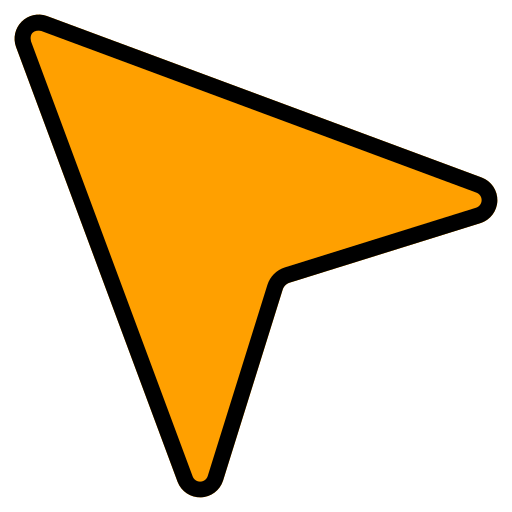
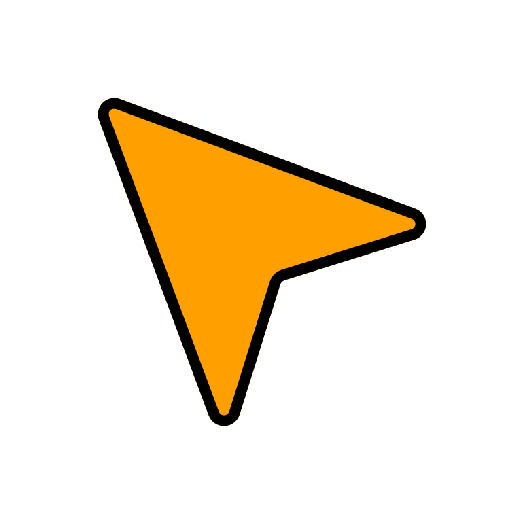
Actualice la ventana de registrarse, ya tiene mismo colores del Login. Agregue nuevo colores de los iconos.

Changed region(s): [[0.0312, 0.0312, 0.9688, 0.9688]]

diff --git a/src/views/FormularioRegistro.java b/src/views/FormularioRegistro.java
@@ -39,18 +39,21 @@ import com.formdev.flatlaf.ui.FlatListCellBorder.Selected;
 import modelos.User;
 import repository.UserRepository;
 import utils.Colores;
+import utils.Fonts;
+import utils.GradientBackground;
 import utils.PanelPersonalizable;
+import utils.RoundedBorder;
 
 public class FormularioRegistro extends JFrame{
     
 	
 	// Puro Fonts, ya depues hare otra clase de Fonts
     public Font fuente;
-    private Font fontError = new Font("Times New Roman", Font.ITALIC, 12);
-    private Font fontTextoCampo = new Font("Times New Roman", Font.ITALIC, 15);
-    private Font fontBoton = new Font("Times New Roman", Font.BOLD, 20);
-    private Font fontTitulo = new Font("Times New Roman", Font.BOLD, 35);
-    private Font fontBotonChico = new Font("Times New Roman", Font.BOLD, 14);
+    private Font fontError = Fonts.setFontSegoe(2, 12);
+    private Font fontTextoCampo = Fonts.setFontSegoe(2, 15);
+    private Font fontBoton = Fonts.setFontSegoe(1, 20);
+    private Font fontTitulo = Fonts.setFontSegoe(1, 35);
+    private Font fontBotonChico = Fonts.setFontSegoe(1, 12);
     
     
     // Fields de Texto para Usuario
@@ -75,19 +78,23 @@ public class FormularioRegistro extends JFrame{
     JLabel iconoUsuario = new JLabel();
     
     //Chckboxes
-    private JCheckBox guardar= new JCheckBox("Guardar como usuario rapido");
+    private JCheckBox guardar= new JCheckBox(" Guardar como usuario rapido");
     public FormularioRegistro()
     {
     	userRepository = new UserRepository();
     	
-        iconoUsuarioFinal = escalarImagenLocal("..\\img\\icono.png",200,200);
-        iconoUsuarioFinal.setDescription("..\\img\\icono.png");
-        setSize(850,550);
+    	GradientBackground gradientBg = new GradientBackground();
+        gradientBg.setLayout(null);
+        setContentPane(gradientBg);
+    	
+        iconoUsuarioFinal = escalarImagenLocal("..\\img\\iconoWhite.png",200,200);
+        iconoUsuarioFinal.setDescription("..\\img\\iconoWhite.png");
+        setSize(1050,650);
         setLayout(null);
         setResizable(false);
         setTitle("Registro");
         setLocationRelativeTo(null);
-        getContentPane().setBackground(Colores.BACKGROUND);
+       // getContentPane().setBackground(Colores.BACKGROUND);
         
         Toolkit tk = Toolkit.getDefaultToolkit();
 		ImageIcon cursorImage = new ImageIcon("src\\img\\pointer_b.png");
@@ -95,13 +102,9 @@ public class FormularioRegistro extends JFrame{
 		this.setCursor(myCursor);
         
         PanelPersonalizable fondo = new PanelPersonalizable();
-        fondo.setBounds(75, 50, 680, 450);
+        fondo.setBounds(165, 90, 680, 450);
+        fondo.setBorder(new RoundedBorder(Colores.INPUT_BORDER, 20, 2));
         fondo.setBackground(Colores.LOGIN_PANEL);
-        
-        // Shadow
-        PanelPersonalizable fondo2 = new PanelPersonalizable();
-        fondo2.setBounds(72, 46, 687, 457);
-        fondo2.setBackground(Colores.SHADOW_COLOR);
         
 
         JPanel panelComponentes = new JPanel();
@@ -114,15 +117,25 @@ public class FormularioRegistro extends JFrame{
         panelComponentes.setAlignmentX(Component.CENTER_ALIGNMENT);
         
         setDefaultCloseOperation(JFrame.DO_NOTHING_ON_CLOSE);
-
-        JLabel saludo = new JLabel("Registrate"); 
+        
+        
+        ImageIcon originalIcon = new ImageIcon("src/img/registerWhite.png");
+        Image scaledImage = originalIcon.getImage().getScaledInstance(32, 32, Image.SCALE_SMOOTH);
+        ImageIcon iconoRegistrar = new ImageIcon(scaledImage);
+        
+        JLabel saludo = new JLabel(" Registrate", iconoRegistrar, JLabel.LEFT);
+        saludo.setHorizontalTextPosition(JLabel.RIGHT);  
+        saludo.setVerticalTextPosition(JLabel.CENTER); 
+        
         saludo.setOpaque(false);
         saludo.setFont(fontTitulo);
-        saludo.setForeground(Colores.TEXT_COLOR);
+        saludo.setForeground(Colores.PRIMARY_HEADINGS);
         saludo.setAlignmentX(Component.CENTER_ALIGNMENT);
         
+        
+        panelComponentes.add(Box.createRigidArea(new Dimension(0,50)));
         panelComponentes.add(saludo);
-        panelComponentes.add(Box.createRigidArea(new Dimension(0,35)));
+        panelComponentes.add(Box.createRigidArea(new Dimension(0,65)));
 
         lblErrorNombre = crearErrorLabel();
         lblErrorApellido = crearErrorLabel();
@@ -138,9 +151,11 @@ public class FormularioRegistro extends JFrame{
         JLabel perfil = new JLabel("Foto perfil");
         perfil.setOpaque(false);
         perfil.setFont(fontTitulo);
-        perfil.setForeground(Colores.TEXT_COLOR);
+        perfil.setForeground(Colores.LOGIN_PANEL_TEXT);
         perfil.setAlignmentX(Component.CENTER_ALIGNMENT);
         panelComponentes.add(perfil);
+        
+        panelComponentes.add(Box.createRigidArea(new Dimension(0,15)));
         
         iconoUsuario.setIcon(iconoUsuarioFinal);
         iconoUsuario.setAlignmentX(Component.CENTER_ALIGNMENT);
@@ -156,7 +171,7 @@ public class FormularioRegistro extends JFrame{
         panelBoton.setAlignmentX(Component.CENTER_ALIGNMENT);
 
         crearBoton(registrar, "..\\img\\icono.png","Registrarse", Colores.BUTTON_COLOR1, 150, 35, fontBoton);
-        crearBoton(seleccionar,"..\\img\\icono.png" , "Seleccionar", Colores.BUTTON_COLOR2, 105, 30, fontBotonChico);
+        crearBoton(seleccionar,"..\\img\\icono.png" , "Seleccionar", Colores.BUTTON_COLOR2, 105, 25, fontBotonChico);
         
         seleccionar.addMouseListener(new MouseAdapter() 
         {
@@ -184,6 +199,7 @@ public class FormularioRegistro extends JFrame{
 		});
 
         
+        
         panelComponentes.add(seleccionar);
         panelComponentes.add(Box.createRigidArea(new Dimension(0,25)));
         
@@ -191,9 +207,11 @@ public class FormularioRegistro extends JFrame{
         // Boton checkbox "guardar"
         panelComponentes.add(Box.createRigidArea(new Dimension(0,25)));
         guardar.setAlignmentX(Component.CENTER_ALIGNMENT);
+        guardar.setForeground(Colores.LOGIN_PANEL_TEXT);
+        guardar.setFont(Fonts.setFontSegoe(2, 15));
         panelComponentes.add(guardar);
         
-        panelComponentes.add(Box.createRigidArea(new Dimension(0,10)));
+        panelComponentes.add(Box.createRigidArea(new Dimension(0,15)));
         panelBoton.add(registrar);
         panelComponentes.add(panelBoton);
         
@@ -204,7 +222,7 @@ public class FormularioRegistro extends JFrame{
         JScrollPane scrollPanel= new JScrollPane(panelComponentes);
 		scrollPanel.setVerticalScrollBarPolicy(JScrollPane.VERTICAL_SCROLLBAR_ALWAYS);
 		scrollPanel.setHorizontalScrollBarPolicy(JScrollPane.HORIZONTAL_SCROLLBAR_NEVER);
-		scrollPanel.setBounds(70, 50, 710, 450);
+		scrollPanel.setBounds(145, 90, 710, 450);
 		scrollPanel.getViewport().setOpaque(false);
 		scrollPanel.setOpaque(false);
 		scrollPanel.getVerticalScrollBar().setUnitIncrement(20); // Hacer que el scroll se baje mas rapido
@@ -213,9 +231,9 @@ public class FormularioRegistro extends JFrame{
 		scrollPanel.getVerticalScrollBar().setOpaque(false);
 		scrollPanel.getViewport().setBackground(Colores.BACKGROUND);
 		
+		
 		add(scrollPanel);
         add(fondo);
-        add(fondo2);
 
         setVisible(true);
     }
@@ -318,6 +336,8 @@ public class FormularioRegistro extends JFrame{
         button.setMaximumSize(new Dimension(buttonWidth, buttonHeight));
         button.setPreferredSize(new Dimension(buttonWidth, buttonHeight));
         button.setMinimumSize(new Dimension(buttonWidth, buttonHeight));
+        
+        button.setCursor(new Cursor(Cursor.HAND_CURSOR));
         
         /*
         try 

diff --git a/src/utils/Fonts.java b/src/utils/Fonts.java
@@ -1,0 +1,16 @@
+package utils;
+
+import java.awt.Font;
+
+public class Fonts {
+	
+	public final static Font FONT_SEGOE_BOLD = new Font("Segoe UI", Font.BOLD, 16);
+	public final static Font FONT_SEGOE = new Font("Segoe UI", Font.PLAIN, 12);
+	
+	
+	// fontStyle ->  BOLD = 1, PLAIN = 0
+	public final static Font setFontSegoe(int fontStyle, int fontSize)
+	{
+		return new Font("Segoe UI", fontStyle, fontSize);
+	}
+}

diff --git a/src/views/Login.java b/src/views/Login.java
@@ -1,6 +1,7 @@
 package views;
 
 import java.awt.Color;
+import java.awt.Cursor;
 import java.awt.Dimension;
 import java.awt.Font;
 import java.awt.Image;
@@ -26,6 +27,7 @@ import javax.swing.border.EmptyBorder;
 import com.formdev.flatlaf.FlatLightLaf;
 
 import utils.Colores;
+import utils.Fonts;
 import utils.PanelPersonalizable;
 
 
@@ -34,9 +36,11 @@ public class Login extends JPanel{
 	public int x;
 	public int y;
 	public boolean logrado;
-	private Font fontTexto = new Font("Times New Roman", Font.ITALIC, 17);
-	private Font fontBoton = new Font("Times New Roman", Font.BOLD, 17);
-	private Font fontTitulo = new Font("Times New Roman", Font.BOLD, 30);
+	
+	private Font fontTexto = Fonts.setFontSegoe(2, 17); 
+	private Font fontBoton = Fonts.setFontSegoe(1, 17);
+	private Font fontTitulo = Fonts.setFontSegoe(1, 30);
+	
 	JLabel mensajeCorreo = new JLabel(" ");
 	JLabel mensajeContraseña = new JLabel(" ");
 	JTextField correo = new JTextField(30);
@@ -80,7 +84,6 @@ public class Login extends JPanel{
 		botonesPanel.setLayout(new BoxLayout(botonesPanel, BoxLayout.Y_AXIS));
 		botonesPanel.setBackground(Colores.LOGIN_PANEL1);
 		botonesPanel.setBorder(new EmptyBorder(0,15,0,0));
-		
 		
 		crearBoton(buttonIniciar, "..\\img\\login.png", "Clic para Iniciar Sesión!");
 		
@@ -220,6 +223,8 @@ public class Login extends JPanel{
 		button.setToolTipText(descripcion);
 		button.setFont(fontBoton);
 		button.setIconTextGap(10);
+		
+		button.setCursor(new Cursor(Cursor.HAND_CURSOR));
 		
 		try 
 		{

diff --git a/src/views/UserPanel.java b/src/views/UserPanel.java
@@ -16,10 +16,11 @@ import javax.swing.border.LineBorder;
 
 import modelos.User;
 import utils.Colores;
+import utils.Fonts;
 
 public class UserPanel extends JPanel {
-	private Font fontNombre = new Font("Segoe UI", Font.BOLD, 16);
-	private Font fontEmail = new Font("Segoe UI", Font.PLAIN, 12);
+	private Font fontNombre = Fonts.FONT_SEGOE_BOLD;
+	private Font fontEmail = Fonts.FONT_SEGOE;
 	private JButton session;
 	private User user;
 	private boolean seleccionado = false;

diff --git a/src/views/Ventana.java b/src/views/Ventana.java
@@ -155,7 +155,7 @@ public class Ventana extends JFrame{
 		PanelPersonalizable fondo1=new PanelPersonalizable();
 		fondo1.setBounds(725, 120, 450, 450);
 		fondo1.setBackground(Colores.LOGIN_PANEL1);
-		fondo1.setBorder(new RoundedBorder(Colores.LOGIN_PANEL_BORDER, 20, 2));
+		fondo1.setBorder(new RoundedBorder(Colores.DEFAULT_BORDER, 20, 2));
 		add(fondo1);
 		
 		

diff --git a/src/views/VentanaPrincipal.java b/src/views/VentanaPrincipal.java
@@ -38,7 +38,7 @@ public class VentanaPrincipal extends JFrame
 	public VentanaPrincipal() 
 	{
 		setSize(800, 600);
-		setTitle("Mi aplicación");
+		setTitle(Session.getCurrentUser().getNombre() + " " + Session.getCurrentUser().getApellido());
 		setLocationRelativeTo(null);
 		setDefaultCloseOperation(JFrame.DO_NOTHING_ON_CLOSE);
 		

diff --git a/src/utils/Colores.java b/src/utils/Colores.java
@@ -41,6 +41,7 @@ public class Colores {
     // Surfaces Cards
     public static final Color CARD_BG = new Color(17, 41, 55);  
     public static final Color INPUT_BG = new Color(17, 24, 39); 
+
     
     // Borders
     public static final Color DEFAULT_BORDER = new Color(17, 24, 39); 